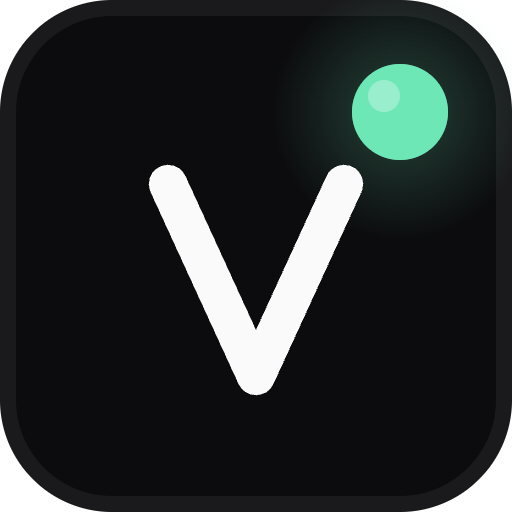
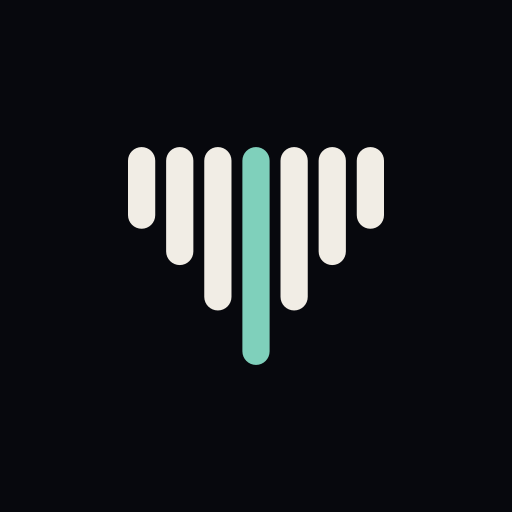
feat: apply Voicewave branding

diff --git a/src/content.ts b/src/content.ts
@@ -1,6 +1,7 @@
 import { classifySelection } from "./lib/api";
 import { lookup, passage } from "./lib/apiBridge";
 import { errorText, escapeHtml, mountCard, renderLookup, renderPassage } from "./content/card";
+import { VOICEWAVE_BARS, VOICEWAVE_COLORS } from "./lib/voicewave";
 import { initYoutubeSubtitles } from "./youtube/subtitleBar";
 
 declare global {
@@ -56,6 +57,28 @@ if (!window.__vocairoContentScriptMounted) {
     button = null;
   }
 
+  function createVoicewaveMark(width: number, scheme: "light" | "dark") {
+    const colors = VOICEWAVE_COLORS[scheme];
+    const svg = document.createElementNS("http://www.w3.org/2000/svg", "svg");
+    svg.setAttribute("aria-hidden", "true");
+    svg.setAttribute("viewBox", "0 0 28.2 24");
+    svg.setAttribute("width", String(width));
+    svg.setAttribute("height", String((width * 24) / 28.2));
+
+    VOICEWAVE_BARS.forEach((height, index) => {
+      const bar = document.createElementNS("http://www.w3.org/2000/svg", "rect");
+      bar.setAttribute("x", String(index * 4.2));
+      bar.setAttribute("y", "0");
+      bar.setAttribute("width", "3");
+      bar.setAttribute("height", String(height));
+      bar.setAttribute("rx", "1.5");
+      bar.setAttribute("fill", index === 3 ? colors.accent : colors.ink);
+      svg.append(bar);
+    });
+
+    return svg;
+  }
+
   document.addEventListener("mouseup", (event) => {
     // Selection isn't always committed yet when mouseup fires, so read it on the next tick.
     window.setTimeout(() => {
@@ -66,14 +89,15 @@ if (!window.__vocairoContentScriptMounted) {
       }
       removeButton();
       const trigger = document.createElement("button");
-      trigger.textContent = "V";
+      trigger.setAttribute("aria-label", "Vocairo: подивитися");
+      trigger.append(createVoicewaveMark(22, "dark"));
       trigger.style.cssText = [
         "position:fixed",
         `left:${event.clientX + 6}px`,
         `top:${event.clientY + 6}px`,
         "z-index:2147483647",
-        "width:24px;height:24px;border-radius:12px;border:0",
-        "background:#4338ca;color:#fff;font:600 12px system-ui;cursor:pointer",
+        "width:32px;height:32px;border:0;border-radius:8px;padding:0",
+        "background:#07080d;display:flex;align-items:center;justify-content:center;cursor:pointer",
       ].join(";");
       trigger.addEventListener("mousedown", (downEvent) => {
         downEvent.preventDefault();

diff --git a/src/App.tsx b/src/App.tsx
@@ -1,5 +1,6 @@
 import { useEffect, useState } from "react";
 import { ThemeToggle } from "./components/ThemeToggle";
+import { VoicewaveMark, VoicewaveWordmark } from "./components/VoicewaveMark";
 import { Button } from "./components/ui/button";
 import { useToken } from "./hooks/useToken";
 import { ApiError, clearToken } from "./lib/api";
@@ -10,6 +11,7 @@ import {
   resumeSignIn,
   signIn,
 } from "./lib/deviceAuth";
+import { useTheme } from "./providers/ThemeProvider";
 
 function describeSignInError(error: unknown): string {
   if (error instanceof DeviceAuthError) {
@@ -24,6 +26,7 @@ function describeSignInError(error: unknown): string {
 }
 
 function App() {
+  const { theme } = useTheme();
   const { token, loading, refresh } = useToken();
   const [code, setCode] = useState<string | null>(null);
   const [error, setError] = useState<string | null>(null);
@@ -82,7 +85,10 @@ function App() {
   return (
     <div className="w-96 bg-background text-foreground p-4 space-y-3">
       <div className="flex items-center justify-between">
-        <h1 className="text-sm font-semibold">Vocairo</h1>
+        <div className="flex items-center gap-2">
+          <VoicewaveMark className="h-5 w-auto" scheme={theme} />
+          <VoicewaveWordmark scheme={theme} />
+        </div>
         <ThemeToggle />
       </div>
 

diff --git a/src/components/VoicewaveMark.tsx b/src/components/VoicewaveMark.tsx
@@ -1,0 +1,43 @@
+import { VOICEWAVE_BARS, VOICEWAVE_COLORS } from "../lib/voicewave";
+
+type VoicewaveMarkProps = {
+  className?: string;
+  scheme?: "light" | "dark" | "mono";
+};
+
+type VoicewaveWordmarkProps = {
+  scheme?: "light" | "dark";
+};
+
+export function VoicewaveMark({ className, scheme = "light" }: VoicewaveMarkProps) {
+  const colors = VOICEWAVE_COLORS[scheme === "dark" ? "dark" : "light"];
+
+  return (
+    <svg aria-hidden="true" className={className} viewBox="0 0 28.2 24">
+      {VOICEWAVE_BARS.map((height, index) => (
+        <rect
+          key={height}
+          x={index * 4.2}
+          y="0"
+          width="3"
+          height={height}
+          rx="1.5"
+          fill={scheme === "mono" || index !== 3 ? colors.ink : colors.accent}
+        />
+      ))}
+    </svg>
+  );
+}
+
+export function VoicewaveWordmark({ scheme = "light" }: VoicewaveWordmarkProps) {
+  const colors = VOICEWAVE_COLORS[scheme];
+
+  return (
+    <h1
+      className="text-sm font-semibold tracking-[-0.045em]"
+      style={{ color: colors.ink, fontFamily: "IBM Plex Sans, sans-serif" }}
+    >
+      Voc<span style={{ color: colors.accent }}>ai</span>ro
+    </h1>
+  );
+}

diff --git a/src/global.css b/src/global.css
@@ -1,4 +1,4 @@
-@import url("https://fonts.googleapis.com/css2?family=Inter:wght@300;400;500;600;700&display=swap");
+@import url("https://fonts.googleapis.com/css2?family=IBM+Plex+Sans:wght@600&family=Inter:wght@300;400;500;600;700&display=swap");
 
 @import "tailwindcss";
 

diff --git a/src/lib/voicewave.ts b/src/lib/voicewave.ts
@@ -1,0 +1,6 @@
+export const VOICEWAVE_BARS = [9, 13, 18, 24, 18, 13, 9] as const;
+
+export const VOICEWAVE_COLORS = {
+  light: { ink: "#181b21", accent: "#2f6b5e" },
+  dark: { ink: "#f1ede5", accent: "#7fd0bb" },
+} as const;
